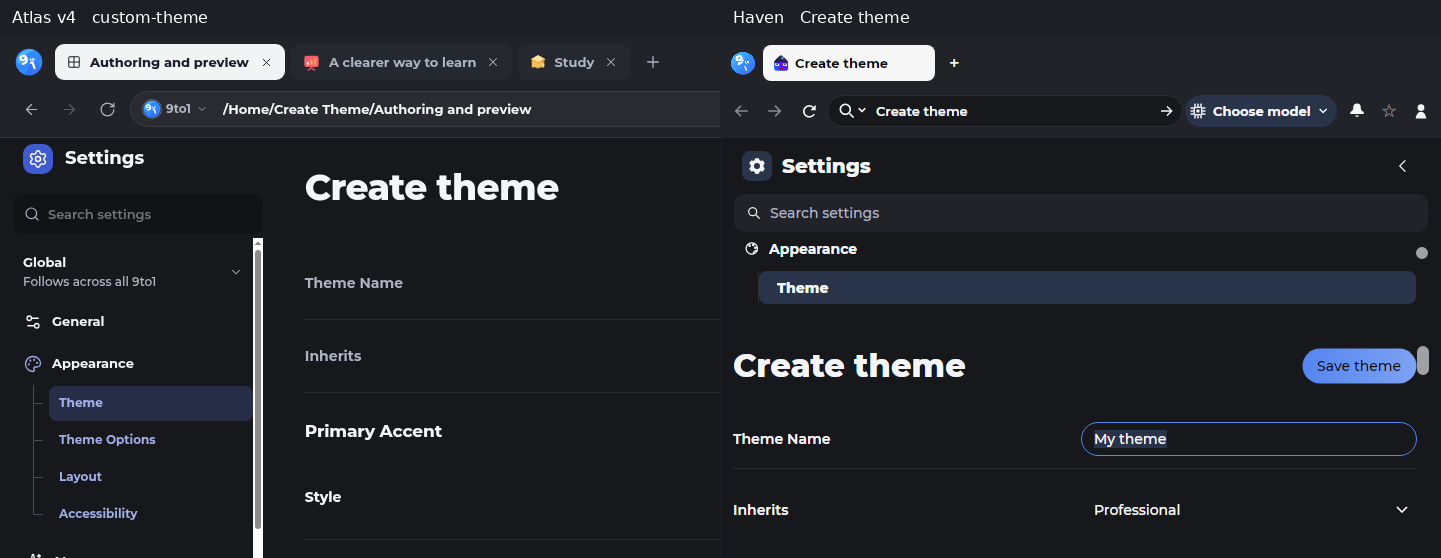
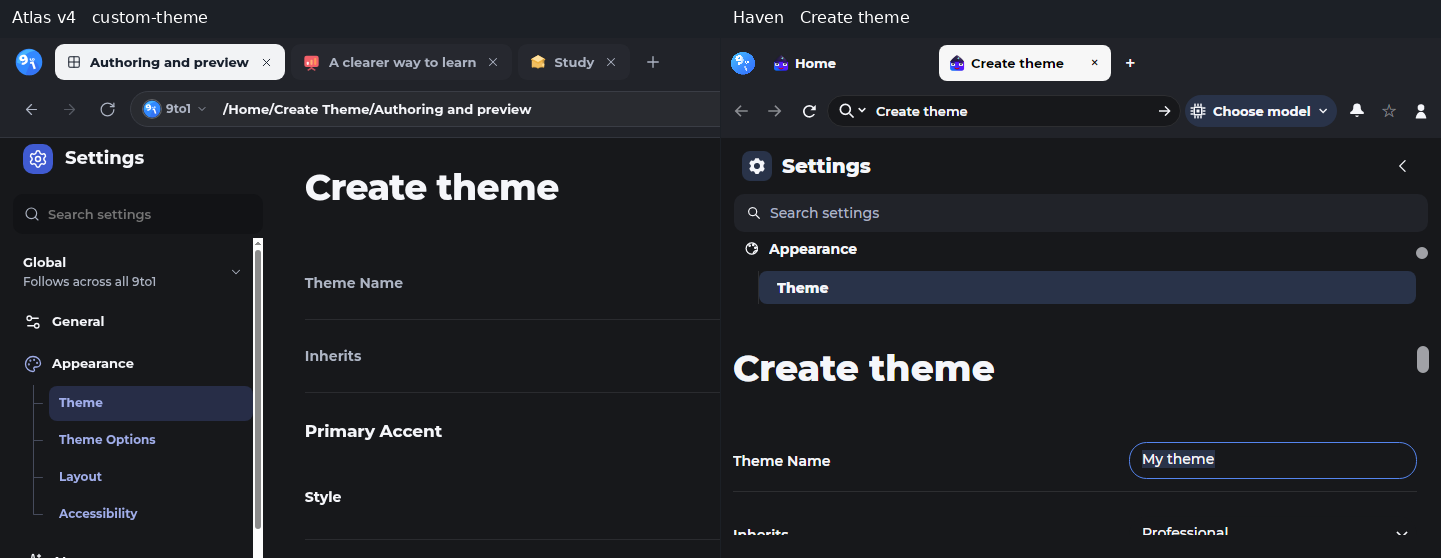
Publish final native theme creator and compact Save comparisons

diff --git a/docs/development/evidence/atlas-20261123-shell-completion/README.md b/docs/development/evidence/atlas-20261123-shell-completion/README.md
@@ -10,6 +10,8 @@ A new profile starts in Professional Dark. The first-run native canvas sampled `
 
 Create theme opens the shared editor from Appearance and Theme Options. Its draft has an inherited base and local material preview. In the native app, Escape restored focus to Create theme and preserved the saved preference. Explicit Save created and activated the named theme. A full restart recovered its complete record and selected gallery card. [Native theme preview](journeys/stage5-create-theme-preview.png) · [Escape and focus](journeys/stage5-theme-cancel-focus.png) · [Selected theme after restart](journeys/stage5-theme-save-and-relaunch.png)
 
+Entering `browse://home/settings/custom-theme` in the address bar now opens Create theme directly. At 1440 pixels the checked Save theme button sits beside the address field. At 720 pixels it is the first item in the profile menu. Clicking it there saved and activated the theme, and restarting the same profile recovered the identical stored theme. At 1440 pixels the native heading begins at x=331, compared with x=329 in Atlas. [Save in the compact menu](journeys/create-theme-narrow-save-menu.png) · [Native actions, profile readback and image hashes](journeys/creator-toolbar-journeys.json)
+
 ## New Tab
 
 Focus, Balanced and More widgets use a layout scoped to the current profile. Changing a preset and background survived a full restart. A separate in-session keyboard check recovered the exact unsent search text after closing Customise. The Linux Upload button opened the native file chooser, and Escape returned to the editor. [Compact background choice](journeys/stage5-customise-horizon-narrow.png) · [Layout after restart](journeys/stage5-new-tab-after-relaunch.png) · [Retained search text](journeys/stage5-new-tab-draft-after-escape.png)
